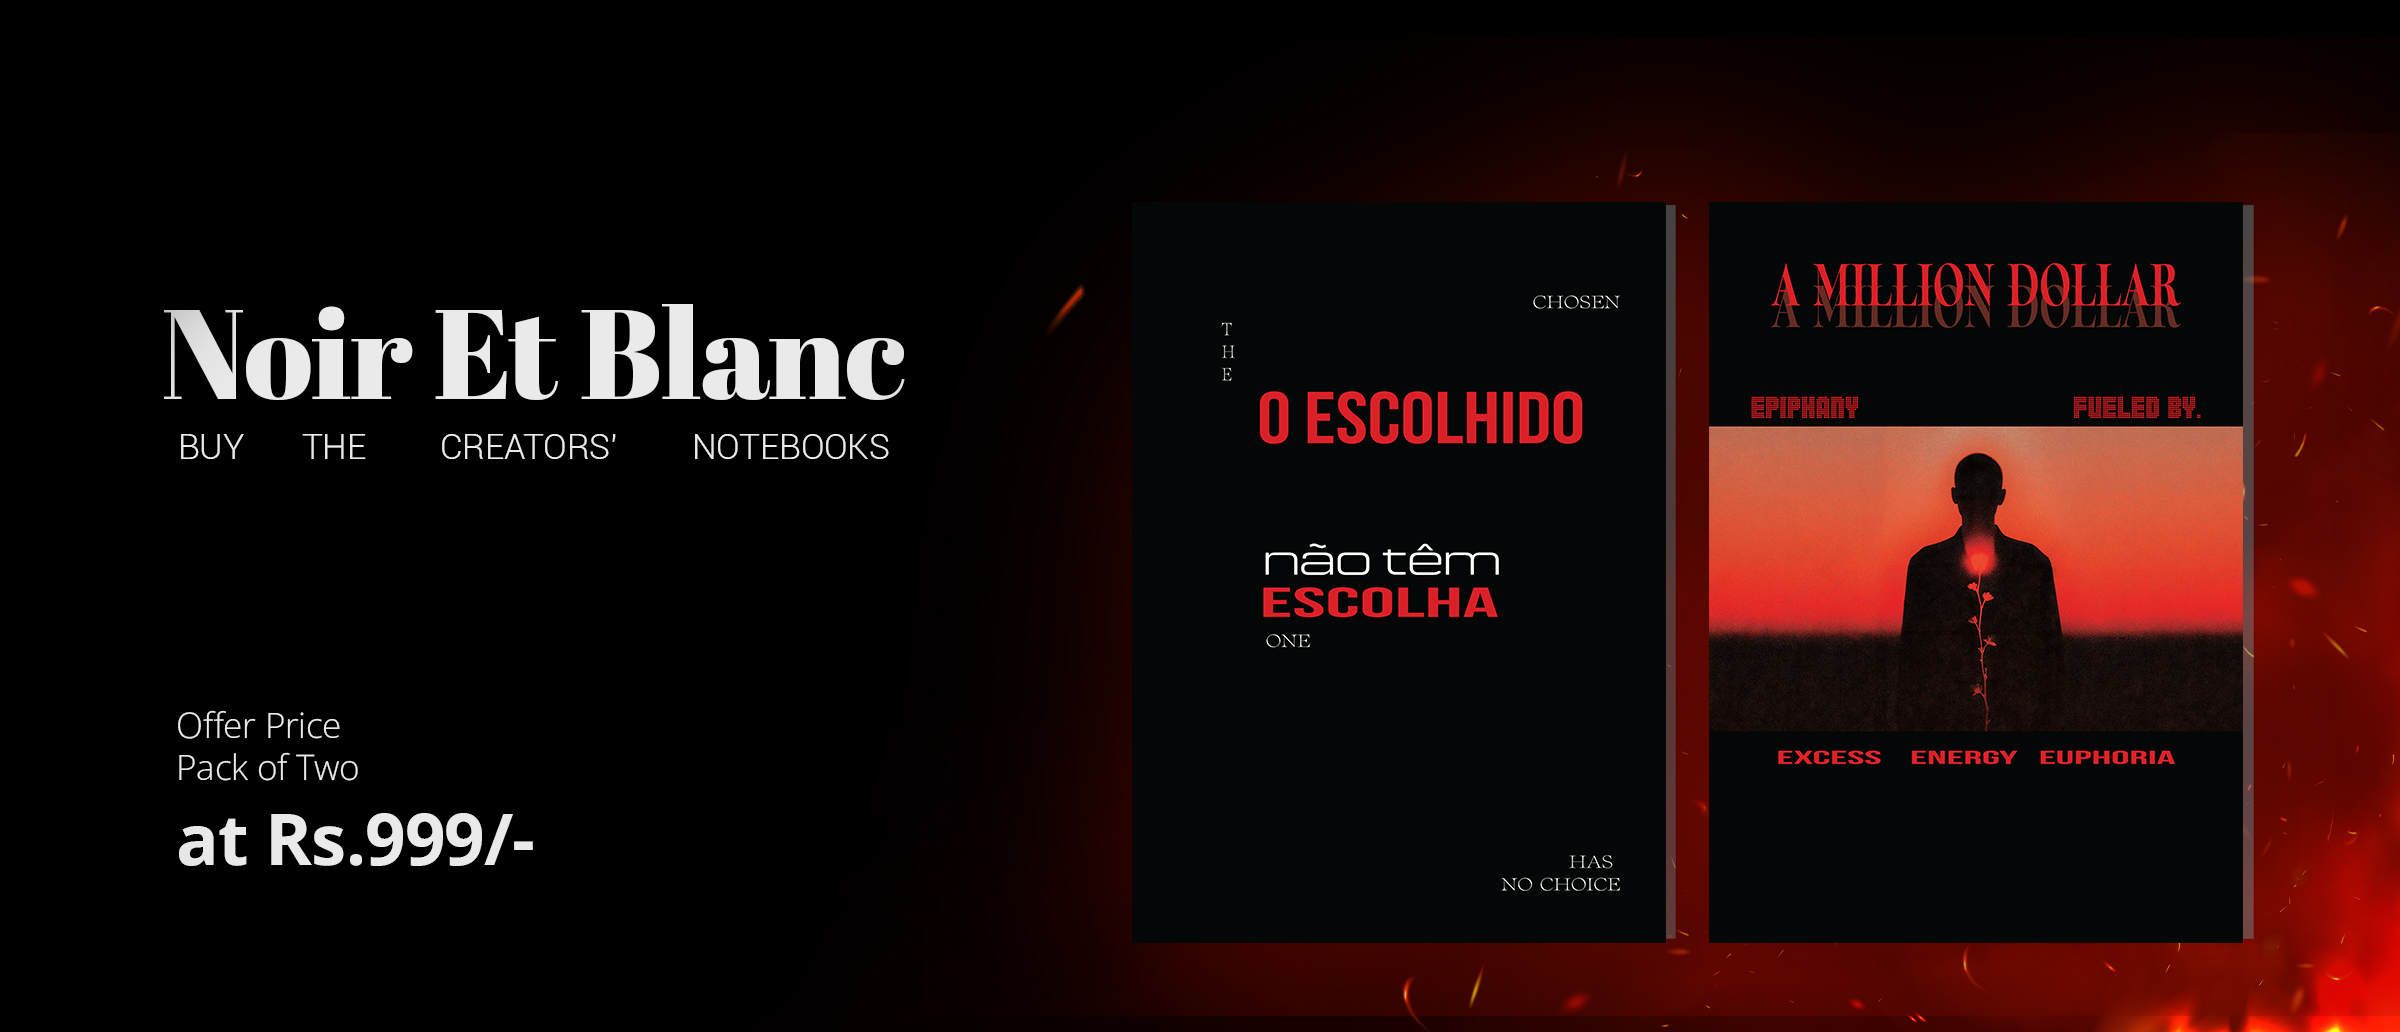
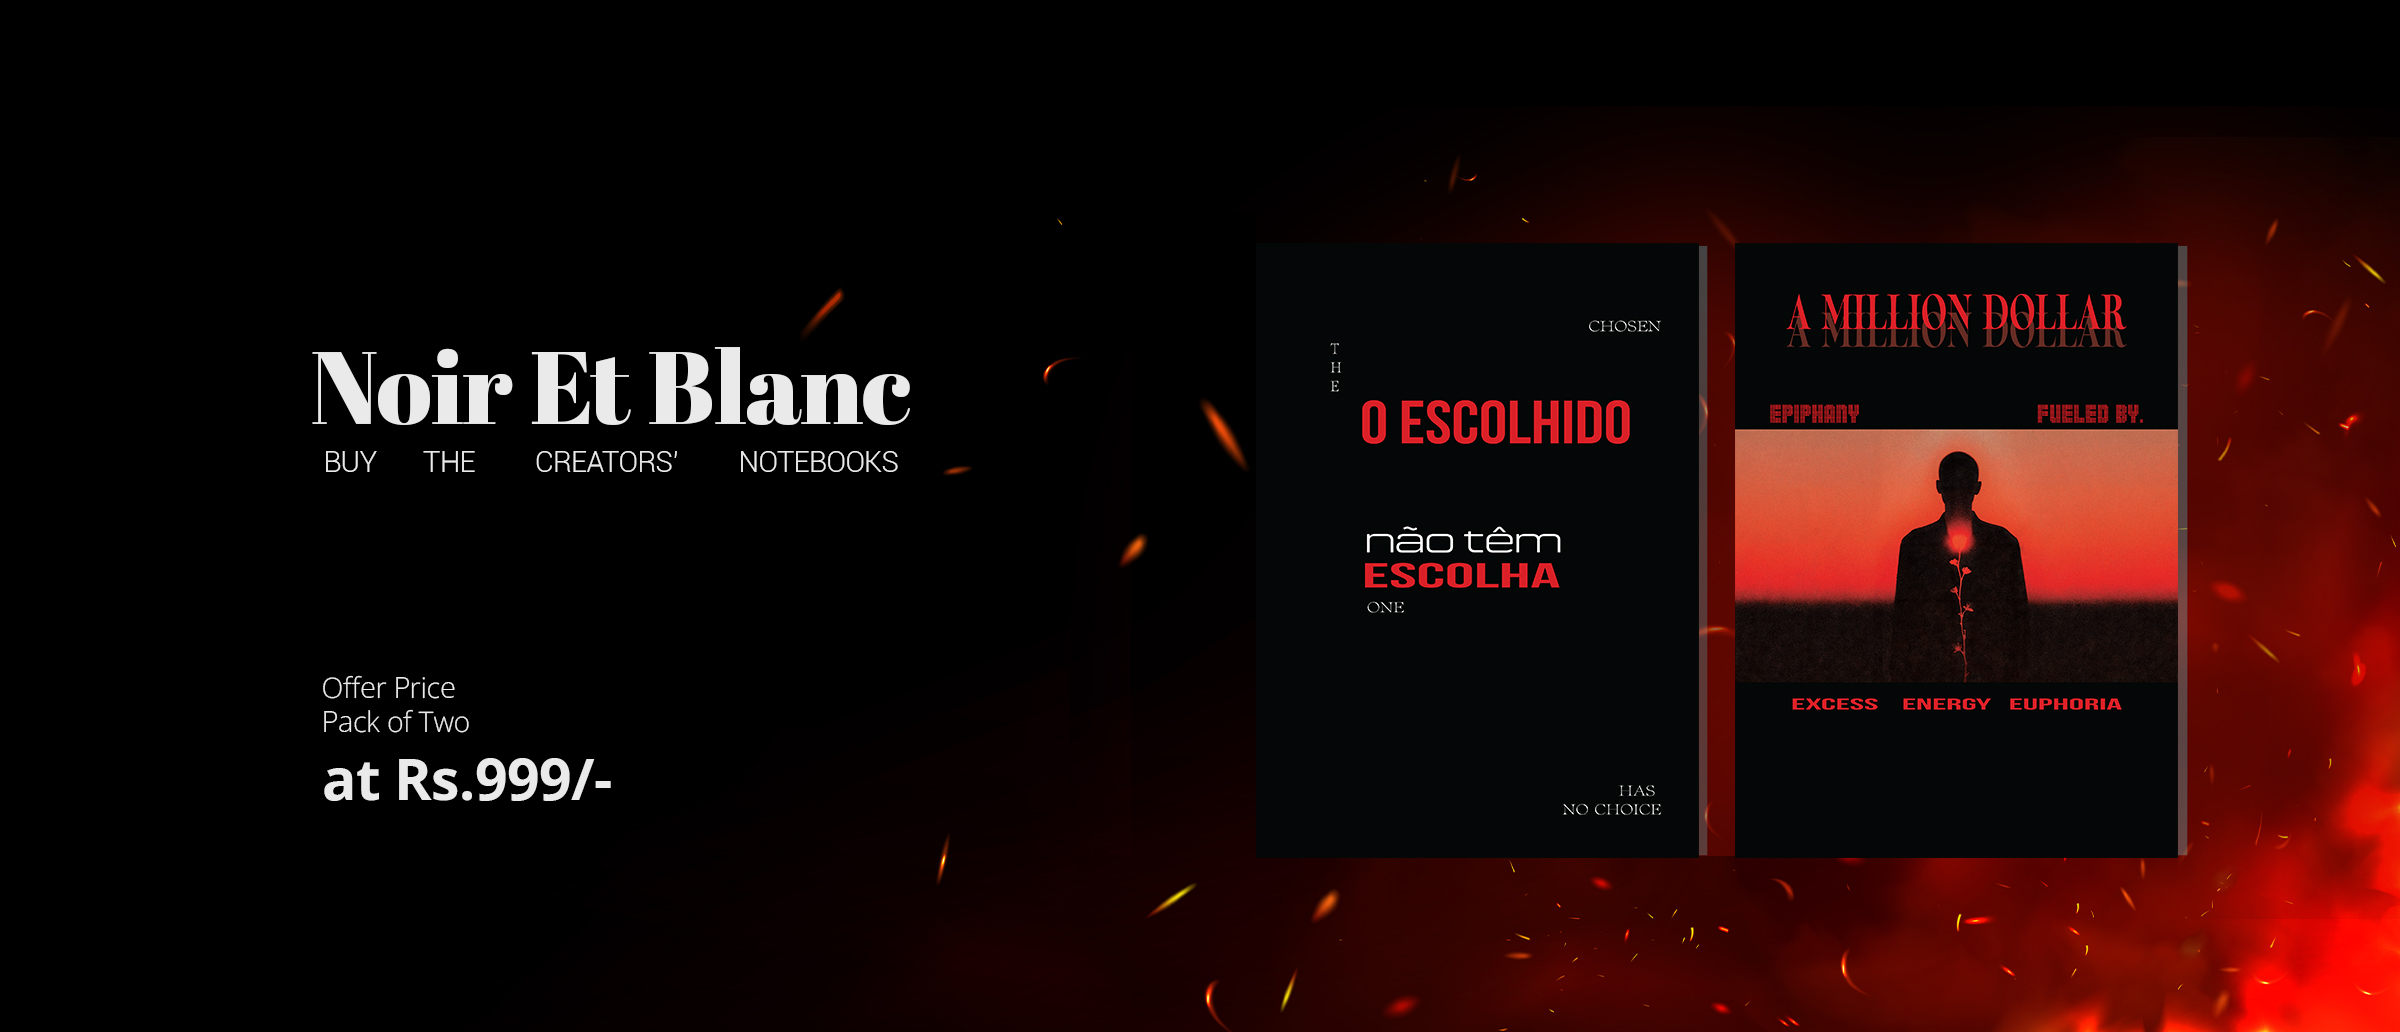
a1

diff --git a/pages/api/seed.js b/pages/api/seed.js
@@ -19,6 +19,12 @@ const categoryData = [
     description: "Journals",
     imageUrl: "/assets/Journals/c1/LUNAR JOURNAL _ A.png",
   },
+  {
+    name: "Desk-Objects",
+    slug: "desk_obj",
+    description: "Desk objects",
+    imageUrl: "\assets\desk_obj\x01.jpeg",
+  },
 ];
 
 // Add new collections here.
@@ -41,10 +47,10 @@ const collectionData = [
     sortOrder: 2,
   },
   {
-    name: "Journals",
-    slug: "c1-journals",
-    description: "Personal journals for notes, thoughts and travel writing.",
-    imageUrl: "/assets/Journals/c1/LUNAR JOURNAL _ A.png",
+    name: "Desk Objects",
+    slug: "dsk-obj",
+    description: "Personal leather desk objects.",
+    imageUrl: "\assets\desk_obj\x01.jpeg",
     categorySlug: "journals",
     sortOrder: 3,
   },
@@ -280,6 +286,48 @@ const productData = [
     },
     {
     name: "Lunar Journal",
+    slug: "Lunar-journal",
+    description: "Lunar Journal\n" +
+        "A premium hardbound notebook designed for thinkers, creators, and quiet moments of clarity\n" +
+        "Minimal in form. Timeless in presence.\n" +
+        "The Lunar Journal is a premium hardbound notebook crafted with luxurious 150 GSM paper and\n" +
+        "a refined modern aesthetic - designed to hold your ideas beautifully.\n" +
+        "Perfect for journaling, sketching, planning, note-taking, or gifting.\n" +
+        "Details\n" +
+        "● Premium Hardbound Finish\n" +
+        "● Size: 21 × 14 cm\n" +
+        "● Paper: 150 GSM thick premium sheets\n" +
+        "● Smooth writing experience with minimal bleed-through\n" +
+        "● Elegant minimalist design with luxury detailing\n" +
+        "● Ideal for pens, pencils & light markers\n" +
+        "Why You'll Love It\n" +
+        "● Clean and sophisticated design language\n" +
+        "● Premium tactile feel\n" +
+        "● Designed for creatives, professionals & modern workspaces\n" +
+        "● Minimal. Intentional. Timeless.",
+    price: 37900,
+    comparePrice: 47000,
+    sku: "JN-001",
+    stock: 80,
+    categorySlug: "journals",
+    collectionSlug: "c1-journals",
+    collectionOrder: 1,
+    tags: ["Journal", "illustrated"],
+    attributes: {
+      pages: "192",
+      format: "A5",
+    },
+    images: [
+      "/assets/Journals/c1/LUNAR JOURNAL _ A.png",
+      "/assets/Journals/c1/LUNAR JOURNAL _ B.png",
+      "/assets/Journals/c1/LUNAR JOURNAL _ C.png",
+      "/assets/Journals/c1/LUNAR JOURNAL _ D.png",
+      "/assets/Journals/c1/LUNAR JOURNAL _ E.png",
+      "/assets/Journals/c1/LUNAR JOURNAL _ F.png"
+    ],
+  },
+  {
+    name: "7",
     slug: "Lunar-journal",
     description: "Lunar Journal\n" +
         "A premium hardbound notebook designed for thinkers, creators, and quiet moments of clarity\n" +

diff --git a/pages/projects.js b/pages/projects.js
@@ -67,14 +67,14 @@ export default function Collections() {
     return (
         <>
             <Head>
-                <title>Collections - Word Of Art</title>
+                <title>Collections - WordArt</title>
             </Head>
 
             <Navbar />
 
             <section className="hero">
                 <div className="hero-banner">
-                    <img src="/assets/home/slide-11.jpg" alt="Collections" />
+                    <img src="\assets\shop\shop_bg.jpg" alt="Collections" />
                     <div className="hero-overlay">
                         <h1>COLLECTIONS</h1>
                     </div>

diff --git a/pages/shop.js b/pages/shop.js
@@ -145,14 +145,14 @@ export default function Shop() {
     return (
         <>
             <Head>
-                <title>Shop - Word Of Art</title>
+                <title>Shop - WordArt</title>
             </Head>
 
             <Navbar />
 
             <section className="hero">
                 <div className="hero-banner">
-                    <img src="/assets/home/slide-11.jpg" alt="Shop" />
+                    <img src="\assets\shop\shop_bg.jpg" alt="Shop" />
                     <div className="hero-overlay">
                         <h1>SHOP</h1>
                     </div>

diff --git a/pages/about.js b/pages/about.js
@@ -7,7 +7,7 @@ export default function About() {
     return (
         <>
             <Head>
-                <title>About Us - Word Of Art</title>
+                <title>About Us - WordArt</title>
                 <meta
                     name="description"
                     content="Wa.Wordart — where ideas find form, stories find meaning, and imagination becomes reality. Premium stationery for creators."

diff --git a/pages/checkout.js b/pages/checkout.js
@@ -89,7 +89,7 @@ export default function CheckoutPage() {
   return (
     <>
       <Head>
-        <title>Checkout - Word Of Art</title>
+        <title>Checkout - WordArt</title>
       </Head>
 
       <Navbar />

diff --git a/pages/index.js b/pages/index.js
@@ -46,7 +46,7 @@ export default function Home() {
         <>
 
             <Head>
-                <title>Word Of Art</title>
+                <title>WordArt</title>
             </Head>
 
             <Navbar />

diff --git a/pages/login.js b/pages/login.js
@@ -35,7 +35,7 @@ export default function Login() {
   return (
     <>
       <Head>
-        <title>Sign In - Word Of Art</title>
+        <title>Sign In - WordArt</title>
       </Head>
 
       <Navbar />

diff --git a/pages/signup.js b/pages/signup.js
@@ -40,7 +40,7 @@ export default function Signup() {
   return (
     <>
       <Head>
-        <title>Create Account - Word Of Art</title>
+        <title>Create Account - WordArt</title>
       </Head>
 
       <Navbar />